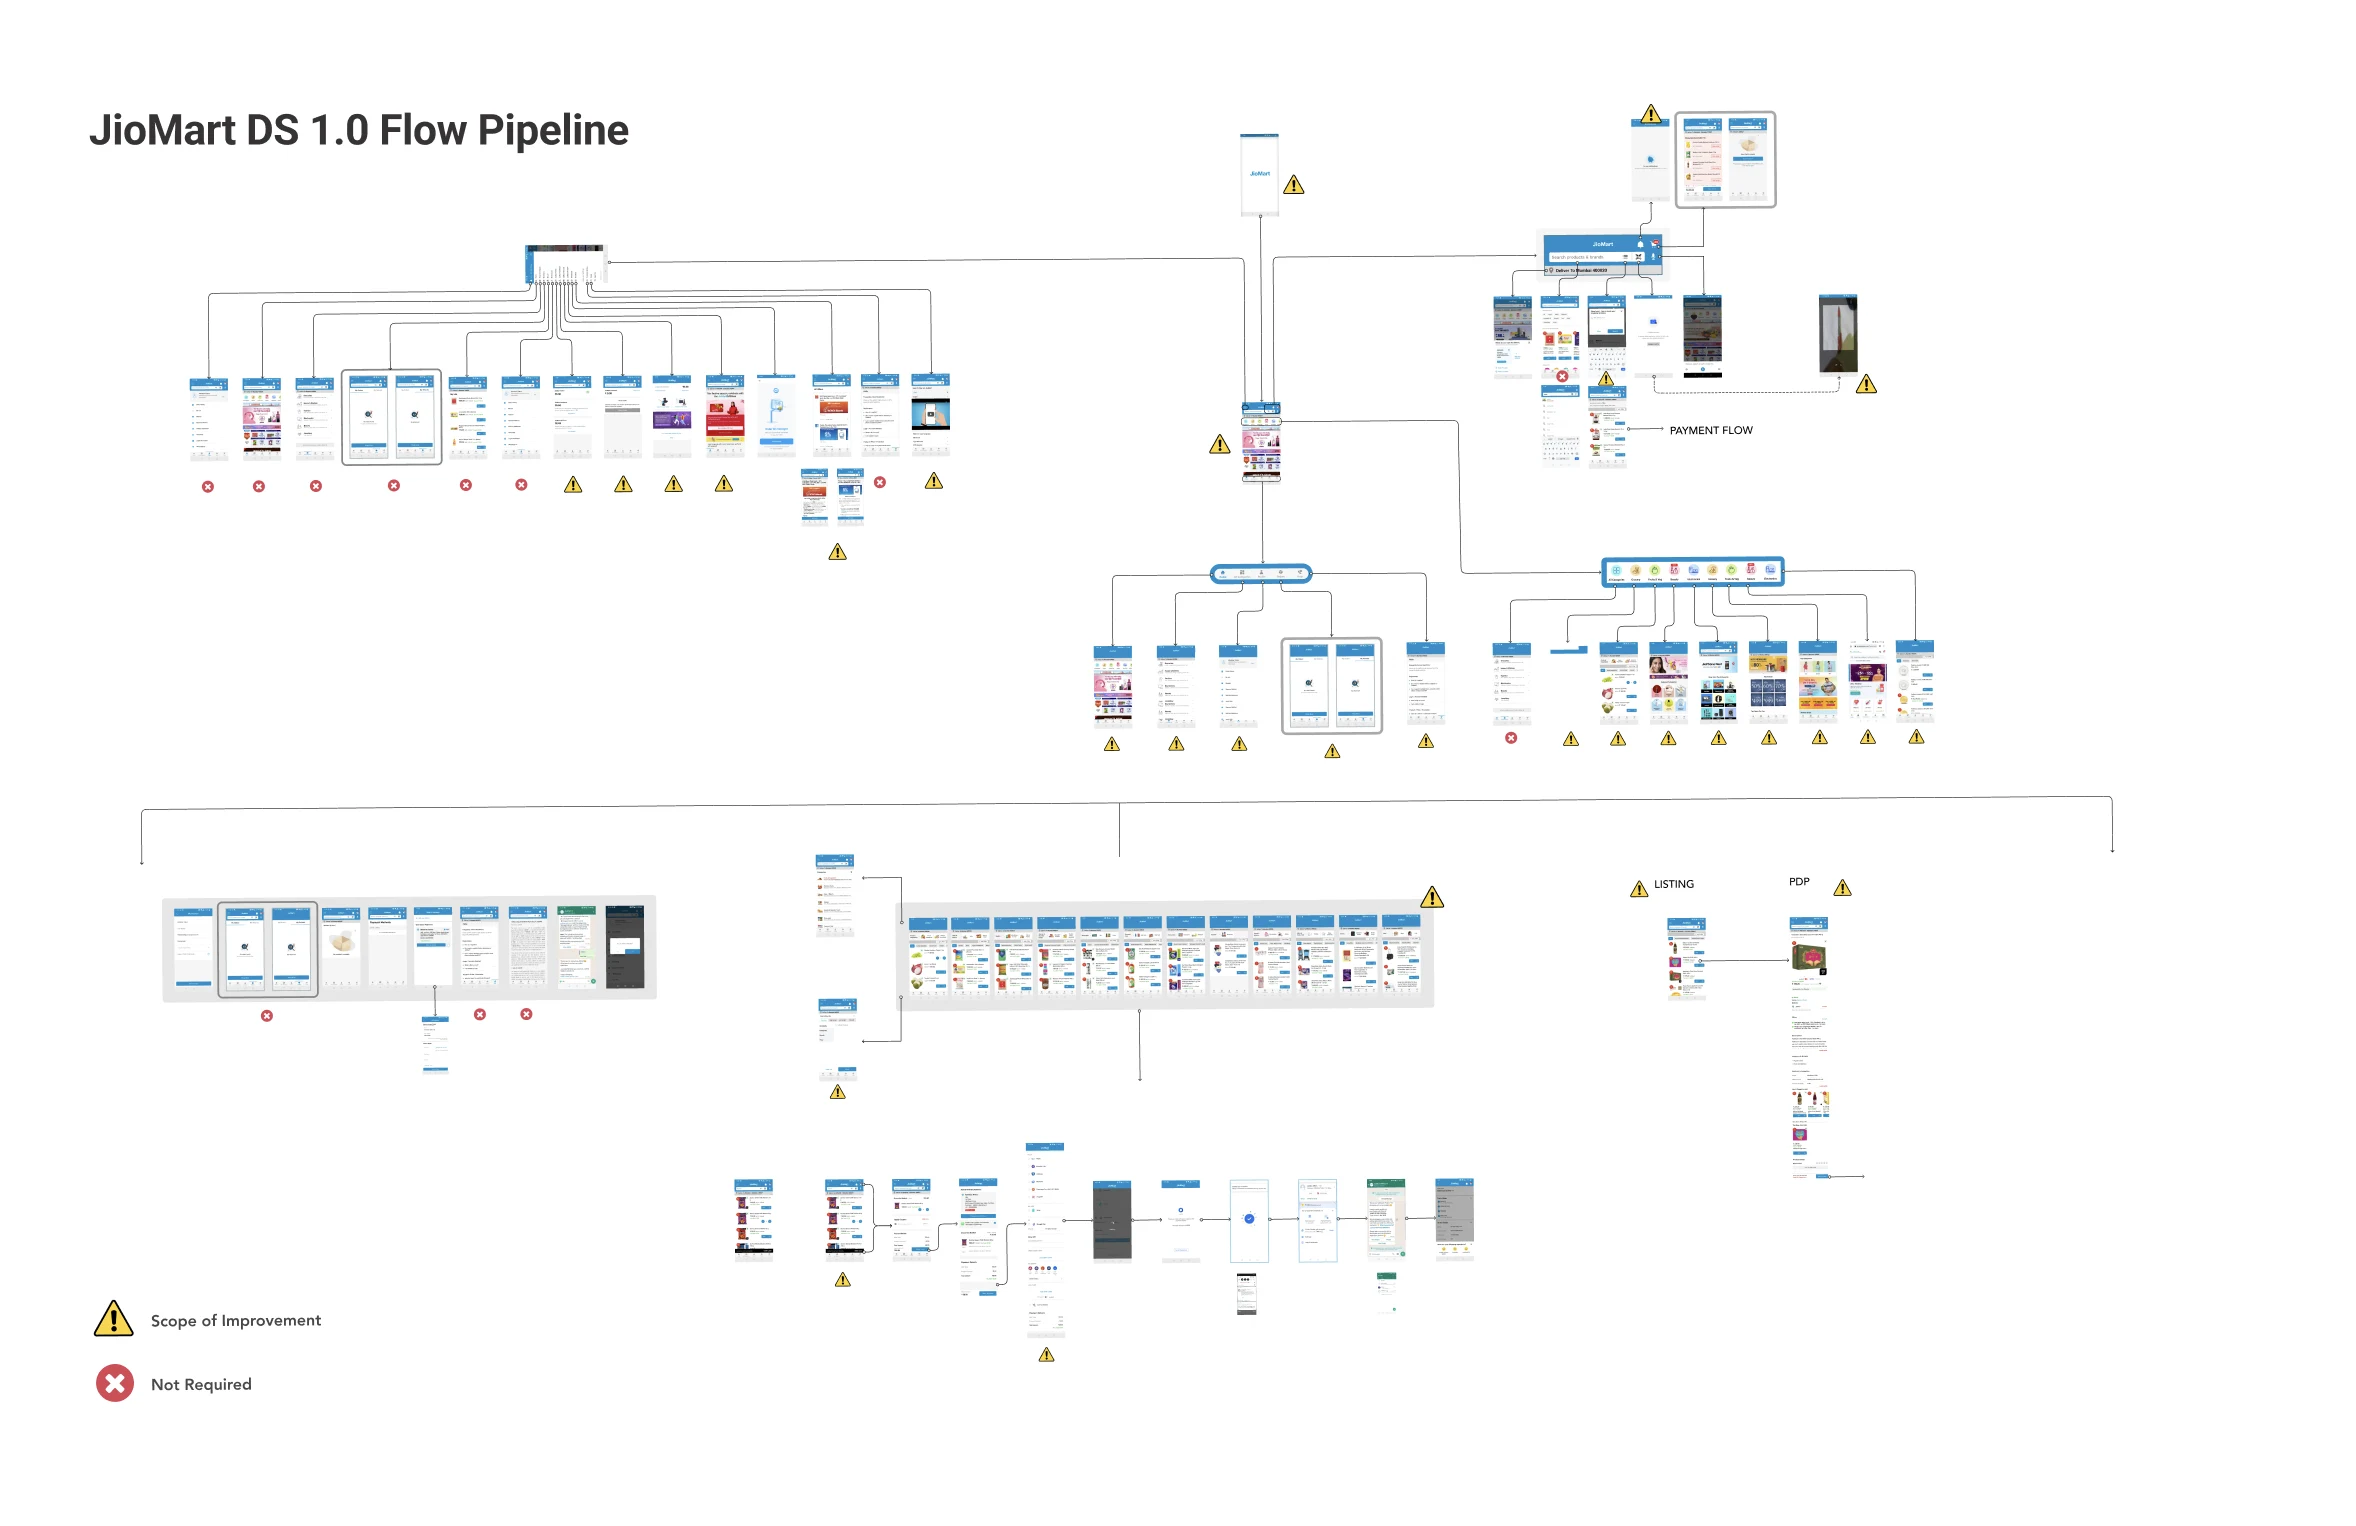
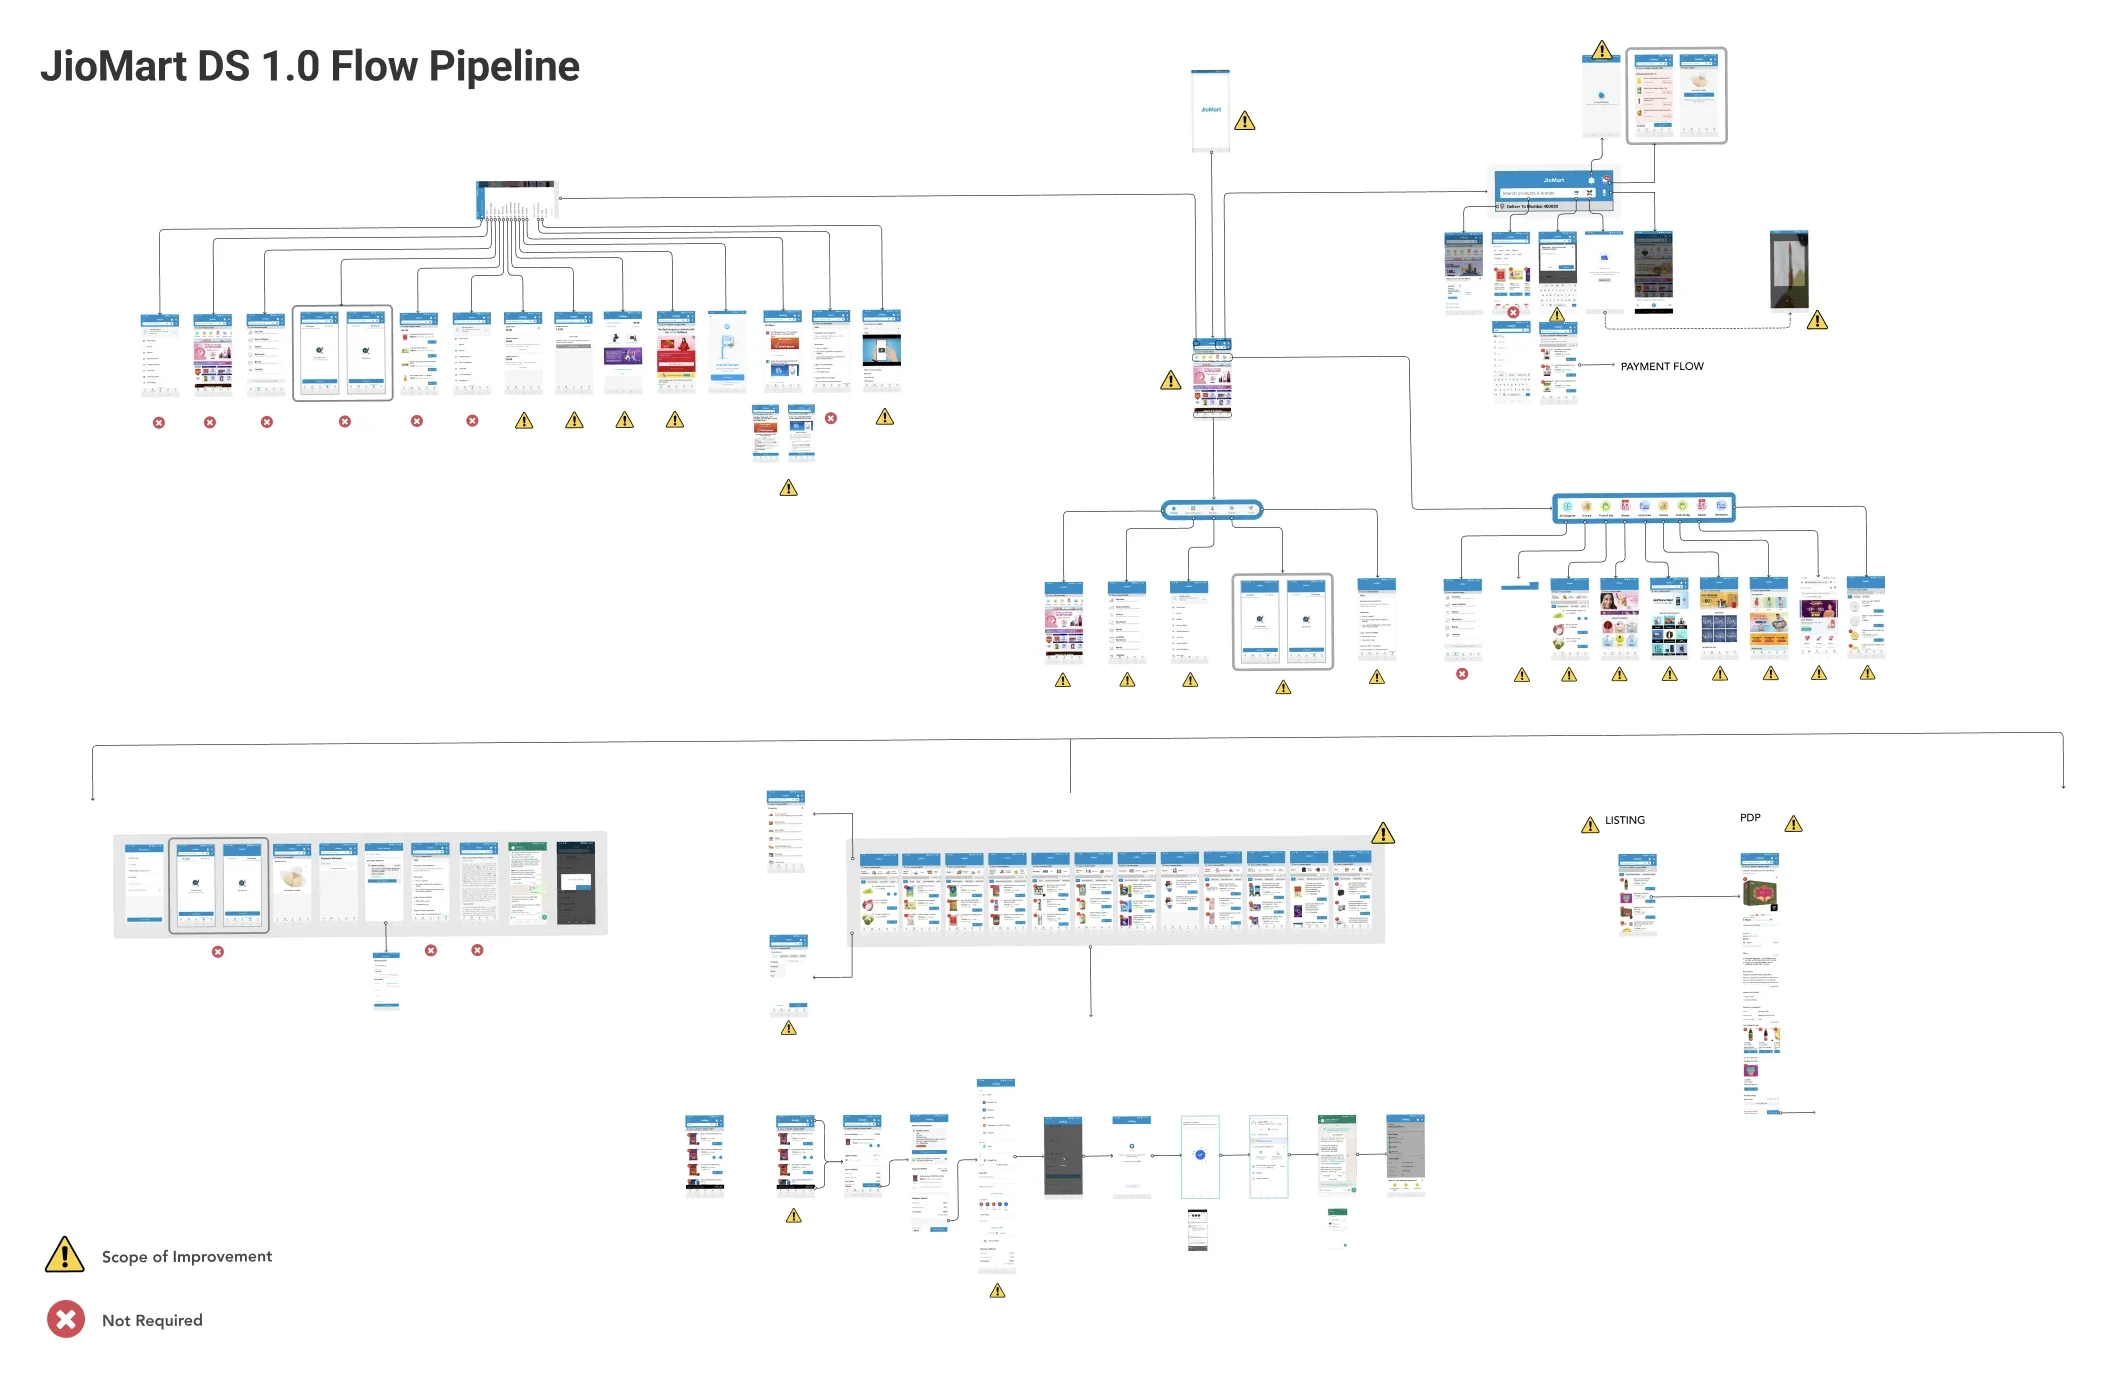
Image sheets: panel fits image width, no crop; trim pipeline margins
Claude-Session: https://claude.ai/code/session_01Hk7si3owCVDs4cH4zgK8o7

diff --git a/js/jiomart-deck.js b/js/jiomart-deck.js
@@ -1595,7 +1595,7 @@
     if (sl2) sl2.style.width = (pw - 2 * 56) / k + "px";   // fill the width: no dead space at the sides
   }
   function openOverlay(id) {
-    var sc = typeof id === "object" ? id : OVERLAYS[id]; if (!sc) return;
+    var sc = typeof id === "object" ? id : OVERLAYS[id]; if (!sc) return; soPanel.style.width = ""; soPanel.classList.remove("img-fit");
     var el = document.createElement("section");
     el.className = "slide active sec-" + sc.section + " type-" + sc.type;
     el.innerHTML = (T[sc.type] || T.opening)(sc);
@@ -1624,7 +1624,7 @@
     sov.classList.add("open", "proof-only"); sov.setAttribute("aria-hidden", "false");
     soOpenSub(pr);
   }
-  function closeOverlay() { sov.classList.remove("proof-only"); sov.classList.remove("open"); sov.setAttribute("aria-hidden", "true"); setTimeout(function () { if (!overlayOpen()) soStage.innerHTML = ""; }, 300); }
+  function closeOverlay() { soPanel.style.width = ""; soPanel.classList.remove("img-fit"); sov.classList.remove("proof-only"); sov.classList.remove("open"); sov.setAttribute("aria-hidden", "true"); setTimeout(function () { if (!overlayOpen()) soStage.innerHTML = ""; }, 300); }
   window.addEventListener("resize", fitOverlay);
   var soTitle = "";
   function soSubOpen() { return soPanel.classList.contains("is-sub"); }
@@ -1635,6 +1635,16 @@
       "<span class='so-path'><button class='so-crumb'>" + esc(soTitle) + "</button><i>\u203A</i><b>" + esc(ev.method || "") + "</b></span></div>" +
       "<div class='so-sub-in ev-body'>" + evHTML(ev) + "</div>";
     v.scrollTop = 0;
+    soPanel.style.width = ""; soPanel.classList.toggle("img-fit", !!ev.full);
+    if (ev.full) {
+      var im = v.querySelector(".ev-img.full img");
+      var fit = function () {
+        if (!im || !im.naturalWidth || !soPanel.classList.contains("img-fit")) return;
+        var h = window.innerHeight - 150, w = im.naturalWidth / im.naturalHeight * h;
+        soPanel.style.width = Math.round(Math.min(window.innerWidth * 0.86, Math.max(560, w + 112))) + "px";
+      };
+      if (im) { if (im.complete) fit(); else im.addEventListener("load", fit); }
+    }
     requestAnimationFrame(function () { soPanel.classList.add("is-sub"); });
     v.querySelector(".so-ret").focus();
   }

diff --git a/js/jiomart-deck-slides.js b/js/jiomart-deck-slides.js
@@ -312,7 +312,7 @@ window.DECK = {
       sub: "Two inputs fed one emotional map, which defined the ideal journey.",
       inputs: [
         { n: "01", t: "Benchmarking", d: "Best practices from leaders.", link: ["5 apps benchmarked", "proof:competitors"],
-          chips: [["USPs", "go:usp"], ["Product experience", "img:research/flow-pipeline.webp|JioMart flow pipeline: every screen, marked for improvement or removal"], "Content design", "Service operations"] },
+          chips: [["USPs", "go:usp"], ["Product experience", "img:research/flow-pipeline.webp?v=2|JioMart flow pipeline: every screen, marked for improvement or removal"], "Content design", "Service operations"] },
         { n: "02", t: "Journey analysis", d: "Finding the pain points.", link: ["Heuristic audit (PDF)", "pdf:research/jiomart-heuristic-audit-discovery.pdf"],
           chips: [["Heuristics", "go:problems"], ["Data analysis", "proof:searchers"], "User survey", "Sentiment analysis"] }
       ],

diff --git a/jiomart-deck.html b/jiomart-deck.html
@@ -10,7 +10,7 @@
       href="https://fonts.googleapis.com/css2?family=Poppins:wght@400;500;600;700;800&family=Caveat:wght@600&display=swap"
       rel="stylesheet"
     />
-    <link rel="stylesheet" href="css/jiomart-deck.css?v=224" />
+    <link rel="stylesheet" href="css/jiomart-deck.css?v=225" />
   <link rel="stylesheet" href="./css/shimmer.css" />
   <link href="./css/gate.css?v=2" rel="stylesheet" />
 <script src="./js/shimmer.js"></script>
@@ -58,8 +58,8 @@
       </aside>
     </div>
 
-    <script src="js/jiomart-deck-slides.js?v=227"></script>
-    <script src="js/jiomart-deck.js?v=194"></script>
+    <script src="js/jiomart-deck-slides.js?v=228"></script>
+    <script src="js/jiomart-deck.js?v=195"></script>
     <script src="./js/gate.js?v=3"></script>
   </body>
 </html>

diff --git a/css/jiomart-deck.css b/css/jiomart-deck.css
@@ -2466,3 +2466,6 @@ html.dark .prb-ref span, [data-theme=dark] .prb-ref span { color: #7fb2e5; }
 .so-sub-in .ev-img.full .ev-imgbox { background: none; padding: 0; border: 0; box-shadow: none; }
 .so-sub-in .ev-img.full img { width: 100% !important; max-height: calc(100vh - 150px) !important; border-radius: 12px; }
 .so-sub-in:has(> .ev-img.full) { padding-top: 24px; }
+/* image-only sheet: never crop, box follows the image */
+.so-sub-in .ev-img.full, .so-sub-in .ev-img.full .ev-imgbox { max-height: none !important; height: auto !important; overflow: visible !important; }
+.so-sub-in .ev-img.full img { height: auto !important; max-height: calc(100vh - 150px) !important; object-fit: contain !important; object-position: 50% 50% !important; display: block; margin: 0 auto; }
